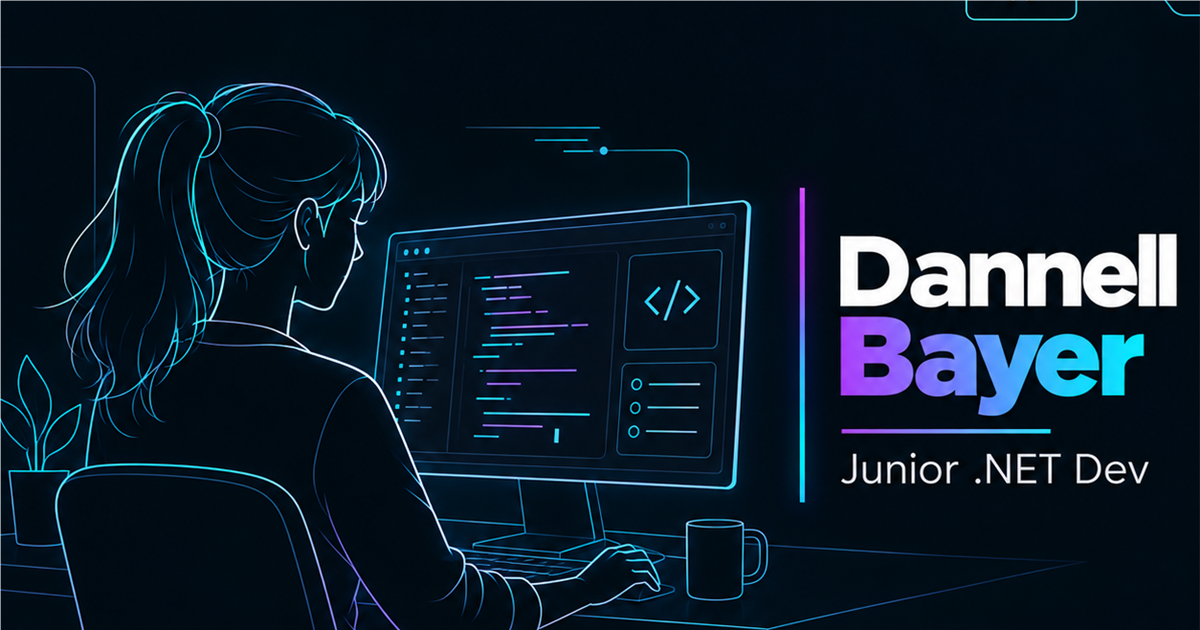
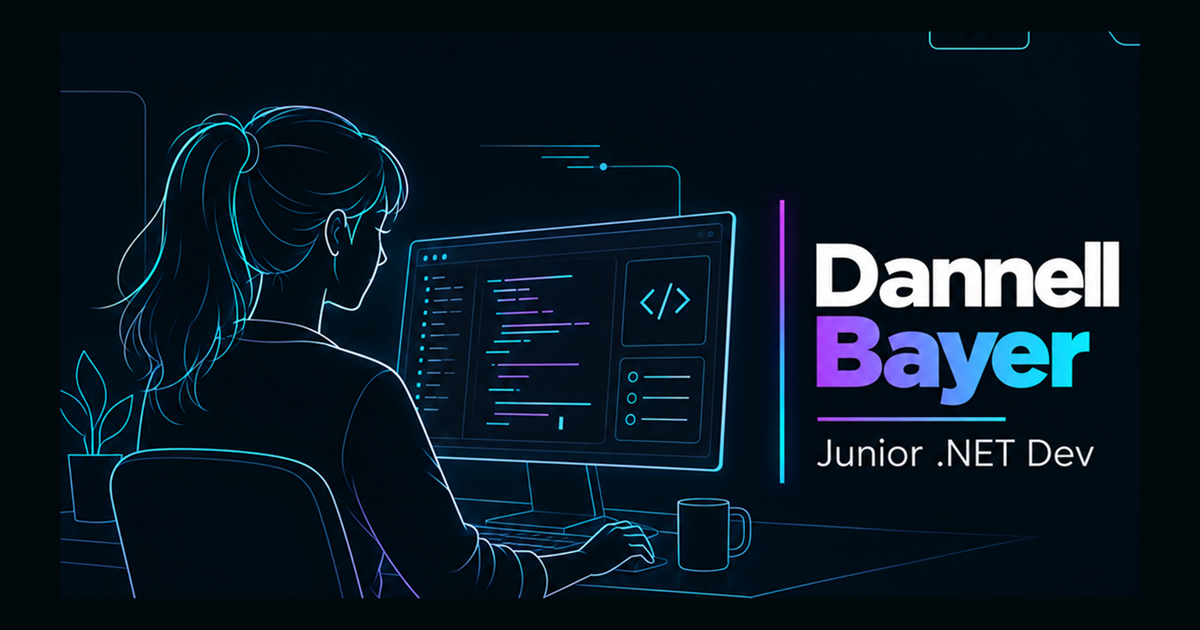
added padding to preview photo and adjusted title and description

diff --git a/indexSV.html b/indexSV.html
@@ -7,19 +7,31 @@
       name="description"
       content="Dannell Bayer är .NET-student inom systemutveckling som bygger responsiva webbapplikationer, utforskar mjukvaruutveckling och söker LIA-plats under 2027."
     />
-    <meta property="og:title" content="Dannell Bayer" />
+    <meta property="og:title" content="Dannell Bayer | .NET-utvecklarportfölj" />
     <meta
       property="og:description"
       content="En .NET-student inom systemutveckling som bygger moderna, skalbara webbapplikationer och utforskar mjukvaruutveckling genom praktiska projekt."
     />
-    <meta property="og:url" content="https://dannellbayer.com" />
+    <meta property="og:url" content="https://dannellbayer.com/indexSV.html" />
+    <meta property="og:site_name" content="Dannell Bayer Portfolio" />
+    <meta property="og:locale" content="sv_SE" />
     <meta property="og:image:width" content="1200" />
     <meta property="og:image:height" content="630" />
     <meta
       property="og:image"
-      content="https://dannellbayer.com/images/preview.png"
+      content="https://dannellbayer.com/images/preview.png?v=2"
     />
+    <meta property="og:image:type" content="image/png" />
+    <meta property="og:image:alt" content="Dannell Bayer, Junior .NET-utvecklare" />
     <meta property="og:type" content="website" />
+    <meta name="twitter:card" content="summary_large_image" />
+    <meta name="twitter:title" content="Dannell Bayer | .NET-utvecklarportfölj" />
+    <meta
+      name="twitter:description"
+      content="En .NET-student inom systemutveckling som bygger moderna, skalbara webbapplikationer och utforskar mjukvaruutveckling genom praktiska projekt."
+    />
+    <meta name="twitter:image" content="https://dannellbayer.com/images/preview.png?v=2" />
+    <meta name="twitter:image:alt" content="Dannell Bayer, Junior .NET-utvecklare" />
     <link rel="icon" type="image/png" sizes="64x64" href="images/favicon.png" />
 
     <link
@@ -142,7 +154,7 @@
     <!-- hero section -->
     <main>
       <section class="hero" id="hero">
-        <video class="hero-video" muted loop playsinline preload="metadata" aria-hidden="true">
+        <video class="hero-video" muted loop playsinline preload="auto" aria-hidden="true">
           <source src="videos/heroanimation.mp4" type="video/mp4" />
         </video>
         <div class="hero-scrim" aria-hidden="true"></div>

diff --git a/index.html b/index.html
@@ -7,19 +7,31 @@
       name="description"
       content="Dannell Bayer is a .NET system developer student building responsive web applications, exploring software engineering, and seeking LIA placement opportunities in 2027."
     />
-    <meta property="og:title" content="Dannell Bayer" />
+    <meta property="og:title" content="Dannell Bayer | .NET Developer Portfolio" />
     <meta
       property="og:description"
       content="A .NET system developer student building modern, scalable web applications and exploring software engineering through hands-on projects."
     />
     <meta property="og:url" content="https://dannellbayer.com" />
+    <meta property="og:site_name" content="Dannell Bayer Portfolio" />
+    <meta property="og:locale" content="en_US" />
     <meta property="og:image:width" content="1200" />
     <meta property="og:image:height" content="630" />
     <meta
       property="og:image"
-      content="https://dannellbayer.com/images/preview.png"
+      content="https://dannellbayer.com/images/preview.png?v=2"
     />
+    <meta property="og:image:type" content="image/png" />
+    <meta property="og:image:alt" content="Dannell Bayer, Junior .NET Developer" />
     <meta property="og:type" content="website" />
+    <meta name="twitter:card" content="summary_large_image" />
+    <meta name="twitter:title" content="Dannell Bayer | .NET Developer Portfolio" />
+    <meta
+      name="twitter:description"
+      content="A .NET system developer student building modern, scalable web applications and exploring software engineering through hands-on projects."
+    />
+    <meta name="twitter:image" content="https://dannellbayer.com/images/preview.png?v=2" />
+    <meta name="twitter:image:alt" content="Dannell Bayer, Junior .NET Developer" />
     <link rel="icon" type="image/png" sizes="64x64" href="images/favicon.png" />
 
     <link
@@ -145,7 +157,7 @@
     <!-- hero section -->
     <main>
       <section class="hero" id="hero">
-        <video class="hero-video" muted loop playsinline preload="metadata" aria-hidden="true">
+        <video class="hero-video" muted loop playsinline preload="auto" aria-hidden="true">
           <source src="videos/heroanimation.mp4" type="video/mp4" />
         </video>
         <div class="hero-scrim" aria-hidden="true"></div>
